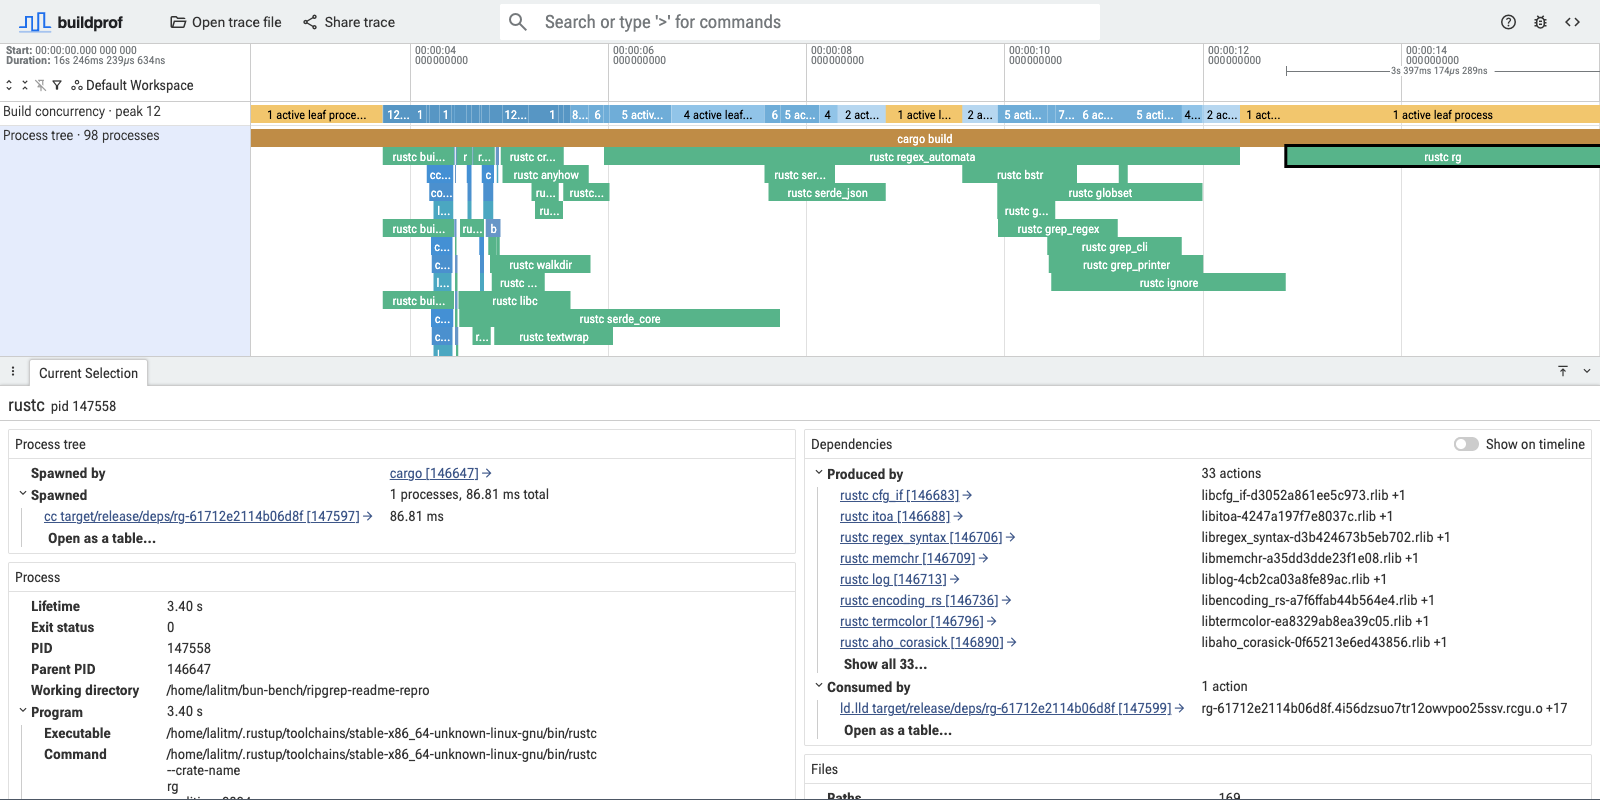
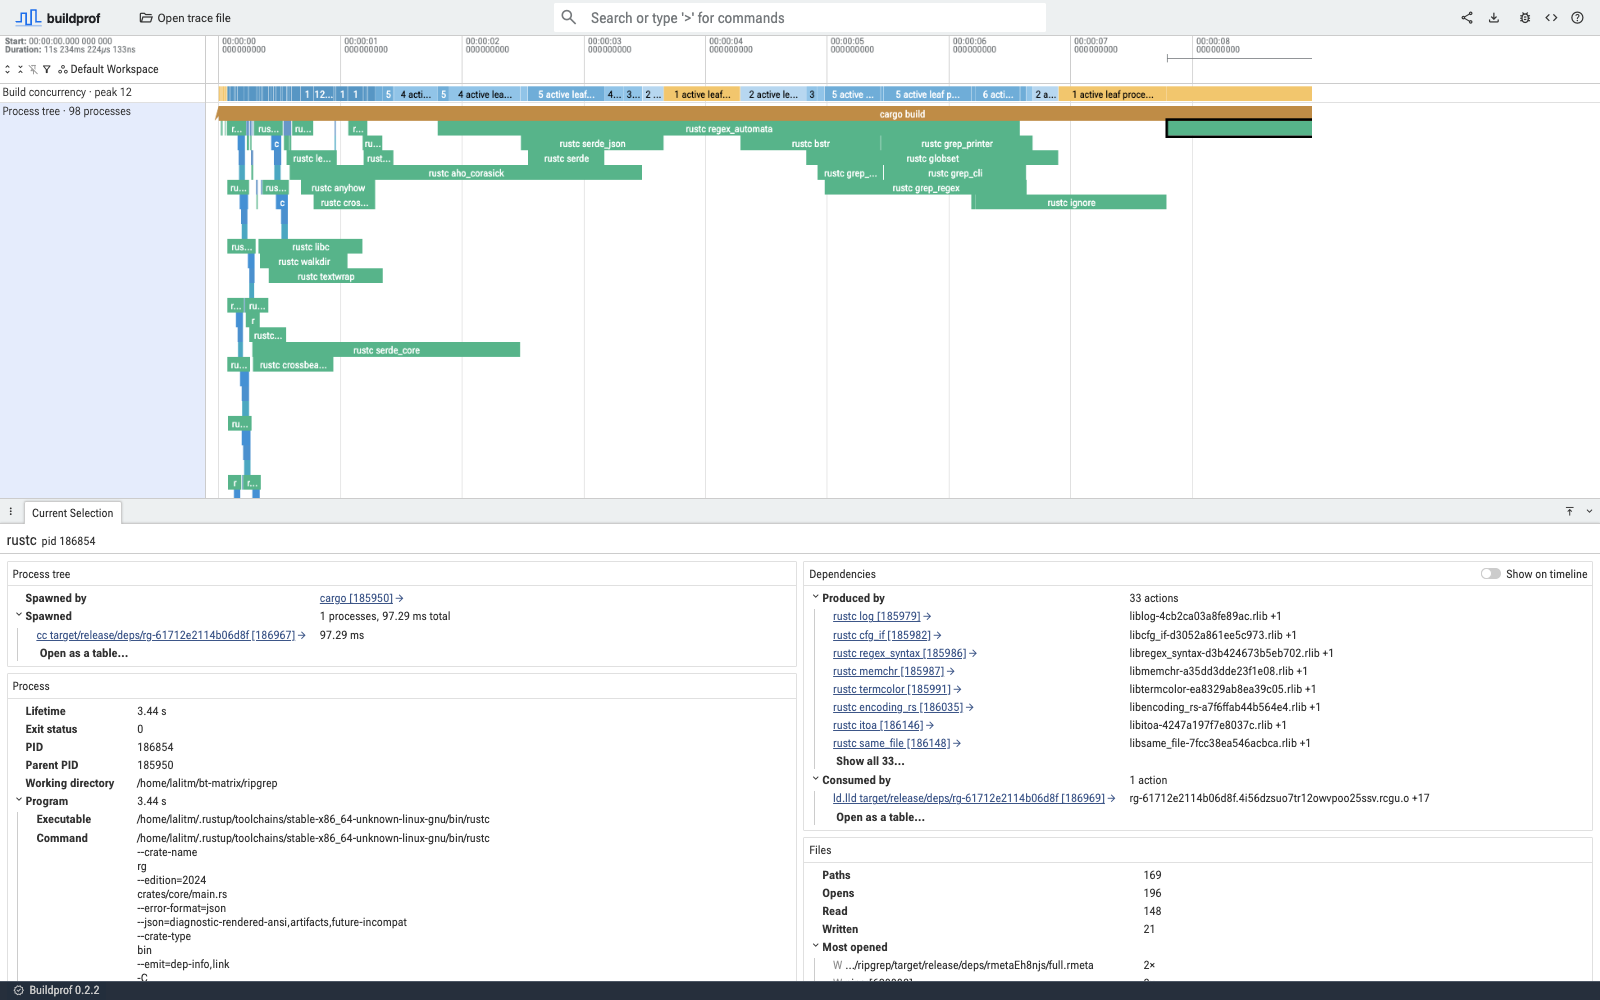
Add some more docs and tutorials

Changed region(s): [[0.0, 0.0, 1.0, 1.0], [0.875, 0.0312, 0.9375, 0.0938], [0.9375, 0.0, 1.0, 0.0312]]

diff --git a/docs/investigating-builds.md b/docs/investigating-builds.md
@@ -1,0 +1,123 @@
+# Investigating a slow build
+
+See the [quick start](../README.md#quick-start) to install Buildprof and record
+your first build.
+
+Start with a whole-build recording, including any setup or wrapper script you
+normally run. This captures downloads, code generation, and other work around
+the compiler too. You can also practice navigating with the
+[ripgrep example](https://buildprof.lalitm.com/#!/?url=https://buildprof.lalitm.com/examples/ripgrep-release-clean.buildprof)
+or follow the [guided tour](ripgrep-tutorial.md) for a worked example.
+
+## Find where the time goes
+
+Time runs left to right, bar width shows duration, and child processes appear
+beneath the process which launched them. Use **W / S** to zoom and **A / D**
+to pan, or **Ctrl / ⌘ + scroll** to zoom at the pointer.
+
+Look for long-running commands, gaps before compilation starts, and processes
+which keep running after everything else finishes. Click a process to inspect
+its command line, working directory, lifetime, and exit status. For example,
+a long linker invocation is a reason to inspect its LTO flags and then look
+inside the linker with [compiler tracing](#compiler-details).
+
+A parent's lifetime includes time spent waiting for children: follow the
+process tree down to see which command is still running. Process duration
+alone does not tell you whether it is using the CPU or waiting.
+
+## Investigate low parallelism or many small commands
+
+Look at **Build concurrency** above the process tree. It counts live processes
+which have no live children at that moment, so a compiler and its waiting
+build-system parent do not count twice. Click a low-concurrency interval to
+see which processes overlap it, then follow their links to inspect them.
+A value of one can still represent a multithreaded compiler using many cores;
+this track does not measure CPU utilization.
+
+To summarize a busy interval, click and drag across the **Process tree** track
+to select a time range, then open **Build aggregation** in the bottom panel.
+Choose **Tool**, **Directory**, or **Action** to group the work. Compare each
+group's count, total duration, and longest duration; expand it to inspect
+individual processes. This helps distinguish many short commands from a few
+long ones.
+
+Aggregation includes processes which never spawned children and whose
+lifetimes overlap the selected range. It uses their full lifetimes, including
+time outside the selection. Overlapping durations add together, so the total
+is neither elapsed build time nor CPU time. To investigate a compiler which
+launched a linker, inspect it directly in the process tree.
+
+## Follow inputs back to their producers
+
+To investigate why a command starts late, select it and expand **Produced by**
+under **Dependencies**. Each entry identifies a process which wrote a file
+the selected command read. Click the process link to jump to its place on
+the timeline; **Open as a table…** shows the relationships as a table.
+**Consumed by** follows the relationship in the other direction, and
+**Show on timeline** displays dependency arrows.
+
+For a linker, this lets you follow object files and archives back to their
+compiler or archiver and compare when those producers finished. These are
+observed file relationships, not a complete account of the build system's
+scheduling decisions; files produced before recording have no producer in
+the trace.
+
+![A selected ripgrep compiler process, with callouts for its command and input producers](assets/ripgrep-tour-process.png)
+
+The numbered callouts identify the selected process (1), its command (2),
+and the **Produced by** links (3). See the [ripgrep tour](ripgrep-tutorial.md)
+to follow these relationships yourself.
+
+## Compiler details
+
+To collect supported compiler events, rerun the build with compiler tracing:
+
+```bash
+buildprof --compiler-traces -- cargo +nightly build
+```
+
+In the recording, select a process with compiler events and click
+**Show compiler track**. Expand its summary track to see per-thread phases;
+zoom in and click an event to inspect its duration and arguments.
+
+You can also replay just an expensive compilation or link rather than the
+whole build. Run its command from the recorded working directory, keeping
+its inputs and flags, with `buildprof --compiler-traces --` in front. The
+command really runs again and may overwrite its outputs. For Clang, invoke
+`clang` or `clang++` through `PATH`; LLD tracing requires an explicit linker
+selection such as `-fuse-ld=lld` on that Clang command. A direct `ld.lld`
+invocation is not wrapped. If you rerun the build system instead, make sure
+it actually rebuilds the command you want to inspect.
+
+For example, suppose the recorded working directory is `/work/my-project`
+and the compilation command is `clang++ -O2 -g -c src/main.cpp -o out/main.o`.
+Replay it with:
+
+```bash
+cd /work/my-project
+buildprof -o compile-detail.buildprof --compiler-traces -- \
+  clang++ -O2 -g -c src/main.cpp -o out/main.o
+```
+
+For a link originally performed by `clang++ -fuse-ld=lld out/main.o -o out/app`:
+
+```bash
+buildprof -o link-detail.buildprof --compiler-traces -- \
+  clang++ -fuse-ld=lld out/main.o -o out/app
+```
+
+These illustrate the command shape: substitute your recorded directory,
+inputs, and full argument list, including libraries and any LTO flags. Keep
+response files referenced by `@file` available too. Both `clang` and `clang++`
+must be on `PATH` for Buildprof to install its Clang wrappers.
+
+See [compiler support and limitations](../README.md#compiler-details) for
+supported compilers and the effects on compiler caches.
+
+## Check whether a change helped
+
+Save separate recordings with `-o before.buildprof` and `-o after.buildprof`,
+then open each to compare the whole build and the commands you investigated.
+Keep the build command, machine, and cache conditions comparable. A clean
+build, an up-to-date rebuild, and a rebuild after editing one file answer
+different questions; whether dependencies are already downloaded matters too.

diff --git a/docs/ripgrep-tutorial.md b/docs/ripgrep-tutorial.md
@@ -1,0 +1,94 @@
+# Explore a ripgrep build
+
+This tour uses a recorded clean release build of ripgrep to practice reading
+the timeline, inspecting a command, and following a file relationship. You
+only need a browser; there is no need to install Buildprof or compile ripgrep.
+
+## 1. Open the recording
+
+Open the [ripgrep release build](https://buildprof.lalitm.com/#!/?url=https://buildprof.lalitm.com/examples/ripgrep-release-clean.buildprof).
+If you already have Buildprof installed, `buildprof open --example ripgrep`
+opens the same example.
+
+The screenshots below use the bundled 0.2.2 recording: about 11.23 seconds,
+98 processes, and peak concurrency of 12. The hosted example may be replaced
+with a newer recording; exact times, process IDs, and layout can then differ.
+
+![The ripgrep build timeline, with overlapping crate compilations followed by rustc rg](assets/ripgrep-tour-overview.png)
+
+Find the long **cargo build** bar. The green `rustc` bars beneath it are crate
+compilations. Several overlap early in the recording, while **rustc rg** runs
+near the end after the other crates finish. The short bars below its right
+edge form the final linking chain.
+
+## 2. Inspect the final crate
+
+Click **rustc rg**, the long green bar near the right end of the timeline.
+Drag the divider above **Current Selection** upward if you need more room
+for the details.
+
+![The selected rustc rg process, with numbered callouts for its bar, command, and producers](assets/ripgrep-tour-process.png)
+
+Find these three items:
+
+1. The outlined bar is your selected process. Its lifetime is about **3.44 s**.
+2. Under **Process → Program → Command**, the arguments include
+   `--crate-name rg` and `crates/core/main.rs`. This identifies what Rust was
+   compiling. The working directory tells you where that relative path starts.
+3. Under **Dependencies → Produced by**, you can see the processes which
+   produced its inputs. There are **33 actions** in this recording.
+
+Under **Process tree → Spawned**, notice the short `cc` command. Follow that
+process link, then its children, to inspect the linking chain. Each selection
+shows that process's own command and lifetime. Click the original `rustc rg`
+bar again to return to it.
+
+## 3. Follow an input to its producer
+
+Under **Produced by**, click **rustc log**. The file shown alongside it begins
+with `liblog` and ends in `.rlib`; it is a compiled Rust library consumed by
+the final crate.
+
+Buildprof selects that earlier compiler process and brings it into view.
+Its command identifies the `log` crate. You have moved from a consumer to
+the process which produced one of its inputs, without needing to know
+Cargo's internal build graph.
+
+Use **Consumed by** to find and follow the link back to **rustc rg**. These
+links describe observed file use; they do not by themselves establish why
+the build system chose a particular start time.
+
+## 4. Examine the serial tail
+
+Click the yellow interval in **Build concurrency** above the middle of the
+`rustc rg` bar. The details should show **1 active leaf process** and a link
+to `rustc rg`. Cargo is still alive, but its running child means Cargo does
+not add another leaf to the count.
+
+This explains the timeline's shape: most crate compilations have finished,
+leaving the final crate. It does not tell us how many CPU cores that compiler
+is using internally.
+
+## 5. Summarize the earlier work
+
+Return to the earlier part of the timeline with **A / D** to pan and **W / S**
+to zoom if needed. Click and drag across the **Process tree** track over
+roughly seconds 2–6. Open **Build aggregation** in the bottom panel.
+
+Choose **Tool**. Expand the `rustc` group to see individual compilations,
+then choose **Action** to group by their labels or **Directory** to group by
+working directory. You should see several Rust compilations in this earlier
+window, in contrast to the single process in the tail.
+
+The totals sum full lifetimes of overlapping processes which never spawned
+children. They are not clipped to the selection, and parallel work adds
+together. Do not compare the sum directly with the window's elapsed time.
+
+## Apply this to your build
+
+You have inspected a compiler command, followed an input to its producer,
+and compared a parallel interval with a serial tail. Use the
+[investigation guide](investigating-builds.md) to repeat those steps on your
+own build and collect compiler details when a process needs a closer look.
+The selected `rustc rg` process has no compiler-internal phase tracks; those
+require another recording with compiler tracing enabled and nightly Rust.

diff --git a/README.md b/README.md
@@ -125,6 +125,9 @@ forever. Alternatively, copy the recording to any machine with Buildprof
 installed and run `buildprof open` there; the macOS build exists for exactly
 that.
 
+**Investigating a slow build?** See the [investigation guide](docs/investigating-builds.md)
+to find expensive commands, follow their inputs, and inspect compiler phases.
+
 ## Build systems
 
 Buildprof follows the process tree, so it does not need to understand the
